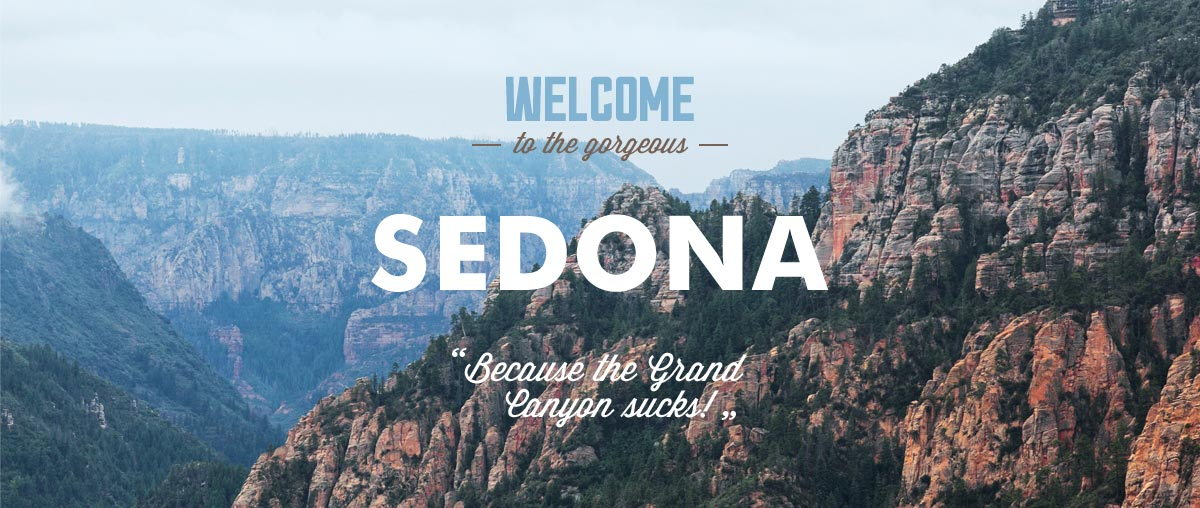
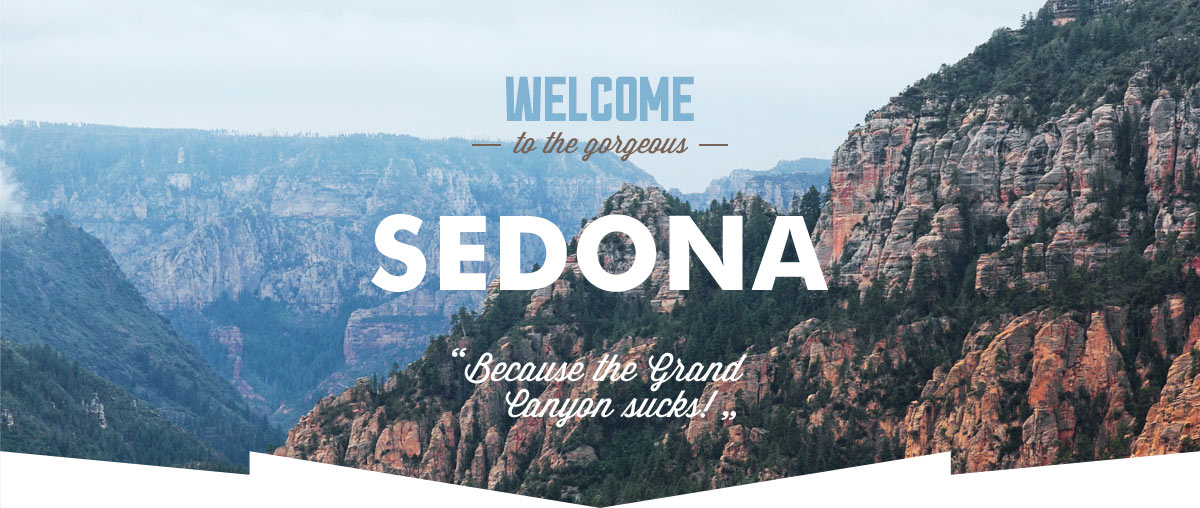
Features section done

Changed region(s): [[0.0, 0.8858, 1.0, 1.0]]

diff --git a/sedona/index.html b/sedona/index.html
@@ -6,30 +6,89 @@
     <meta name="viewport" content="width=device-width, initial-scale=1.0">
     <meta http-equiv="X-UA-Compatible" content="ie=edge">
     <link rel="stylesheet" href="css/style.css">
-    <link href="https://fonts.googleapis.com/css?family=PT+Sans:400,700" rel="stylesheet"> 
+    <link href="https://fonts.googleapis.com/css?family=PT+Sans:400,700" rel="stylesheet">
     <title>Sedona</title>
 </head>
 
 <body>
     <div class="wrapper container">
-        <header class="main-header container">
+        <header class="main-header">
             <nav class="site-navigation">
                 <ul class="navigation-panel">
-                    <li><a class="nav-item" href="#">Информация</a></li>
-                    <li><a class="nav-item" href="#">Фото и видео</a></li>
-                    <li><span class="nav-item logo"></span></li>
-                    <li><a class="nav-item" href="#">Карта штата</a></li>
-                    <li><a class="nav-item" href="#">Гостиницы</a></li>
+                    <li>
+                        <a class="nav-item" href="#">Информация</a>
+                    </li>
+                    <li>
+                        <a class="nav-item" href="#">Фото и видео</a>
+                    </li>
+                    <li>
+                        <span class="nav-item logo"></span>
+                    </li>
+                    <li>
+                        <a class="nav-item" href="#">Карта штата</a>
+                    </li>
+                    <li>
+                        <a class="nav-item" href="#">Гостиницы</a>
+                    </li>
                 </ul>
             </nav>
         </header>
-        <main class="container">
+        <main>
             <img class="main-background" src="img/Welcome.jpg" width="1200" height="508" alt="Welcome Sedona">
-            <img class="image-shape" src="img/Shape_1.svg" width="1200" height="57" alt="shape">
             <div class="intro-wrap">
                 <h1 class="tagline">Седона — небольшой городок в Аризоне, заслуживающий большего!</h1>
                 <p>Рассмотрим 5 причин, по которым Седона круче, чем Гранд Каньон!</p>
             </div>
+            <section class="features">
+                <ul class="features-list">
+                    <li class="feature-item blue-item">
+                        <div class="text-wrap">
+                            <h2>Настоящий городок</h2>
+                            <p>- №1 -</p>
+                            <p>Седона - не аттракцион для туристов, там течет своя жизнь</p>
+                        </div>
+                        <img src="img/features-1.jpg" width="800" height="256" alt="City picture">
+                    </li>
+                    <li class="feature-item white-item">
+                        <img class="house-icon" src="img/house-icon.svg" width="75" height="72" alt="House icon">
+                        <h2>Жилье</h2>
+                        <p>Рекомендуем пожить в настоящем мотеле, все как в кино!</p>
+                    </li>
+                    <li class="feature-item white-item">
+                        <img class="food-icon" src="img/food-icon.svg" width="74" height="70" alt="Food icon">
+                        <h2>Еда</h2>
+                        <p>Всегда заказывайте фирменный бургер, вы не разочаруетесь!</p>
+                    </li>
+                    <li class="feature-item white-item">
+                        <img class="gift-icon" src="img/gift-icon.svg" width="64" height="76" alt="Gift icon">
+                        <h2>Сувениры</h2>
+                        <p>Не только китайского, но и местного производства!</p>
+                    </li>
+                    <li class="feature-item blue-item">
+                        <img src="img/features-2.jpg" width="800" height="256" alt="Grand Canyon">
+                        <div class="text-wrap">
+                            <h2>Там есть мост дьявола</h2>
+                            <p>- №2 -</p>
+                            <p>Да, по нему можно пройти если конечно вы осмелитесь</p>
+                        </div>
+                    </li>
+                    <li class="feature-item gray-item">
+                        <h2>Небольшая площадь</h2>
+                        <p>- №3 -</p>
+                        <p>Все достопримечательности находятся очень близко</p>
+                    </li>
+                    <li class="feature-item gray-item">
+                        <h2>Красивая дорога</h2>
+                        <p>- №4 -</p>
+                        <p>Ехать в Сеодну из Лас-Вегаса совсем не скучно!</p>
+                    </li>
+                    <li class="feature-item gray-item">
+                        <h2>Мало туристов</h2>
+                        <p>- №5 -</p>
+                        <p>Большинство едет в Гранд Каньон и толпится там</p>
+                    </li>
+                </ul>
+            </section>
         </main>
     </div>
 </body>

diff --git a/sedona/css/style.css b/sedona/css/style.css
@@ -75,18 +75,11 @@ body {
     opacity: 1;
 }
 
-.image-shape {
-    position: absolute;
-    top: 507px;
-    left: 0;
-}
-
 .intro-wrap {
     min-height: 211px;
     display: flex;
     flex-direction: column;
     align-items: center;
-
 }
 
 .tagline {
@@ -111,3 +104,90 @@ body {
     text-align: center;
     text-transform: uppercase;
 }
+
+.features-list {
+    margin: 0;
+    padding: 0;
+
+    display: flex;
+    justify-content: space-between;
+    flex-wrap: wrap;
+
+    list-style: none;
+}
+
+.feature-item {
+    display: flex;
+    flex-direction: column;
+    align-items: center;
+
+    text-transform: uppercase;
+    line-height: 21px;
+}
+
+.feature-item h2 {
+    width: 155px;
+    text-align: center;
+    font-size: 21px;
+    font-weight: 700;
+}
+
+.feature-item p {
+    width: 300px;
+
+    font-size: 14px;
+    font-weight: 400;
+    text-align: center;
+    color:  #333333;
+}
+
+.blue-item {
+    width: 100%;
+    min-height: 256px;
+    flex-direction: row;
+    background-color: #81b3d2;
+}
+
+.blue-item .text-wrap {
+    width: 400px;
+    display: flex;
+    flex-direction: column;
+    align-items: center;
+}
+
+.blue-item .text-wrap p,
+.blue-item .text-wrap h2 {
+    color: #fff;
+}
+
+.blue-item .text-wrap h2 {
+    margin-bottom: 10px;
+}
+
+.white-item {
+    width: 400px;
+    min-height: 330px;
+    position: relative;
+}
+
+.white-item img {
+    position: absolute;
+    top: 60px;
+}
+
+.white-item h2 {
+    margin-top: 160px;
+    margin-bottom: 10px;
+}
+
+.gray-item {
+    width: 400px;
+    min-height: 256px;
+    background-color: #eeeeee;
+}
+
+.gray-item h2 {
+    margin-top: 46px;
+    margin-bottom: 10px;
+}
+
